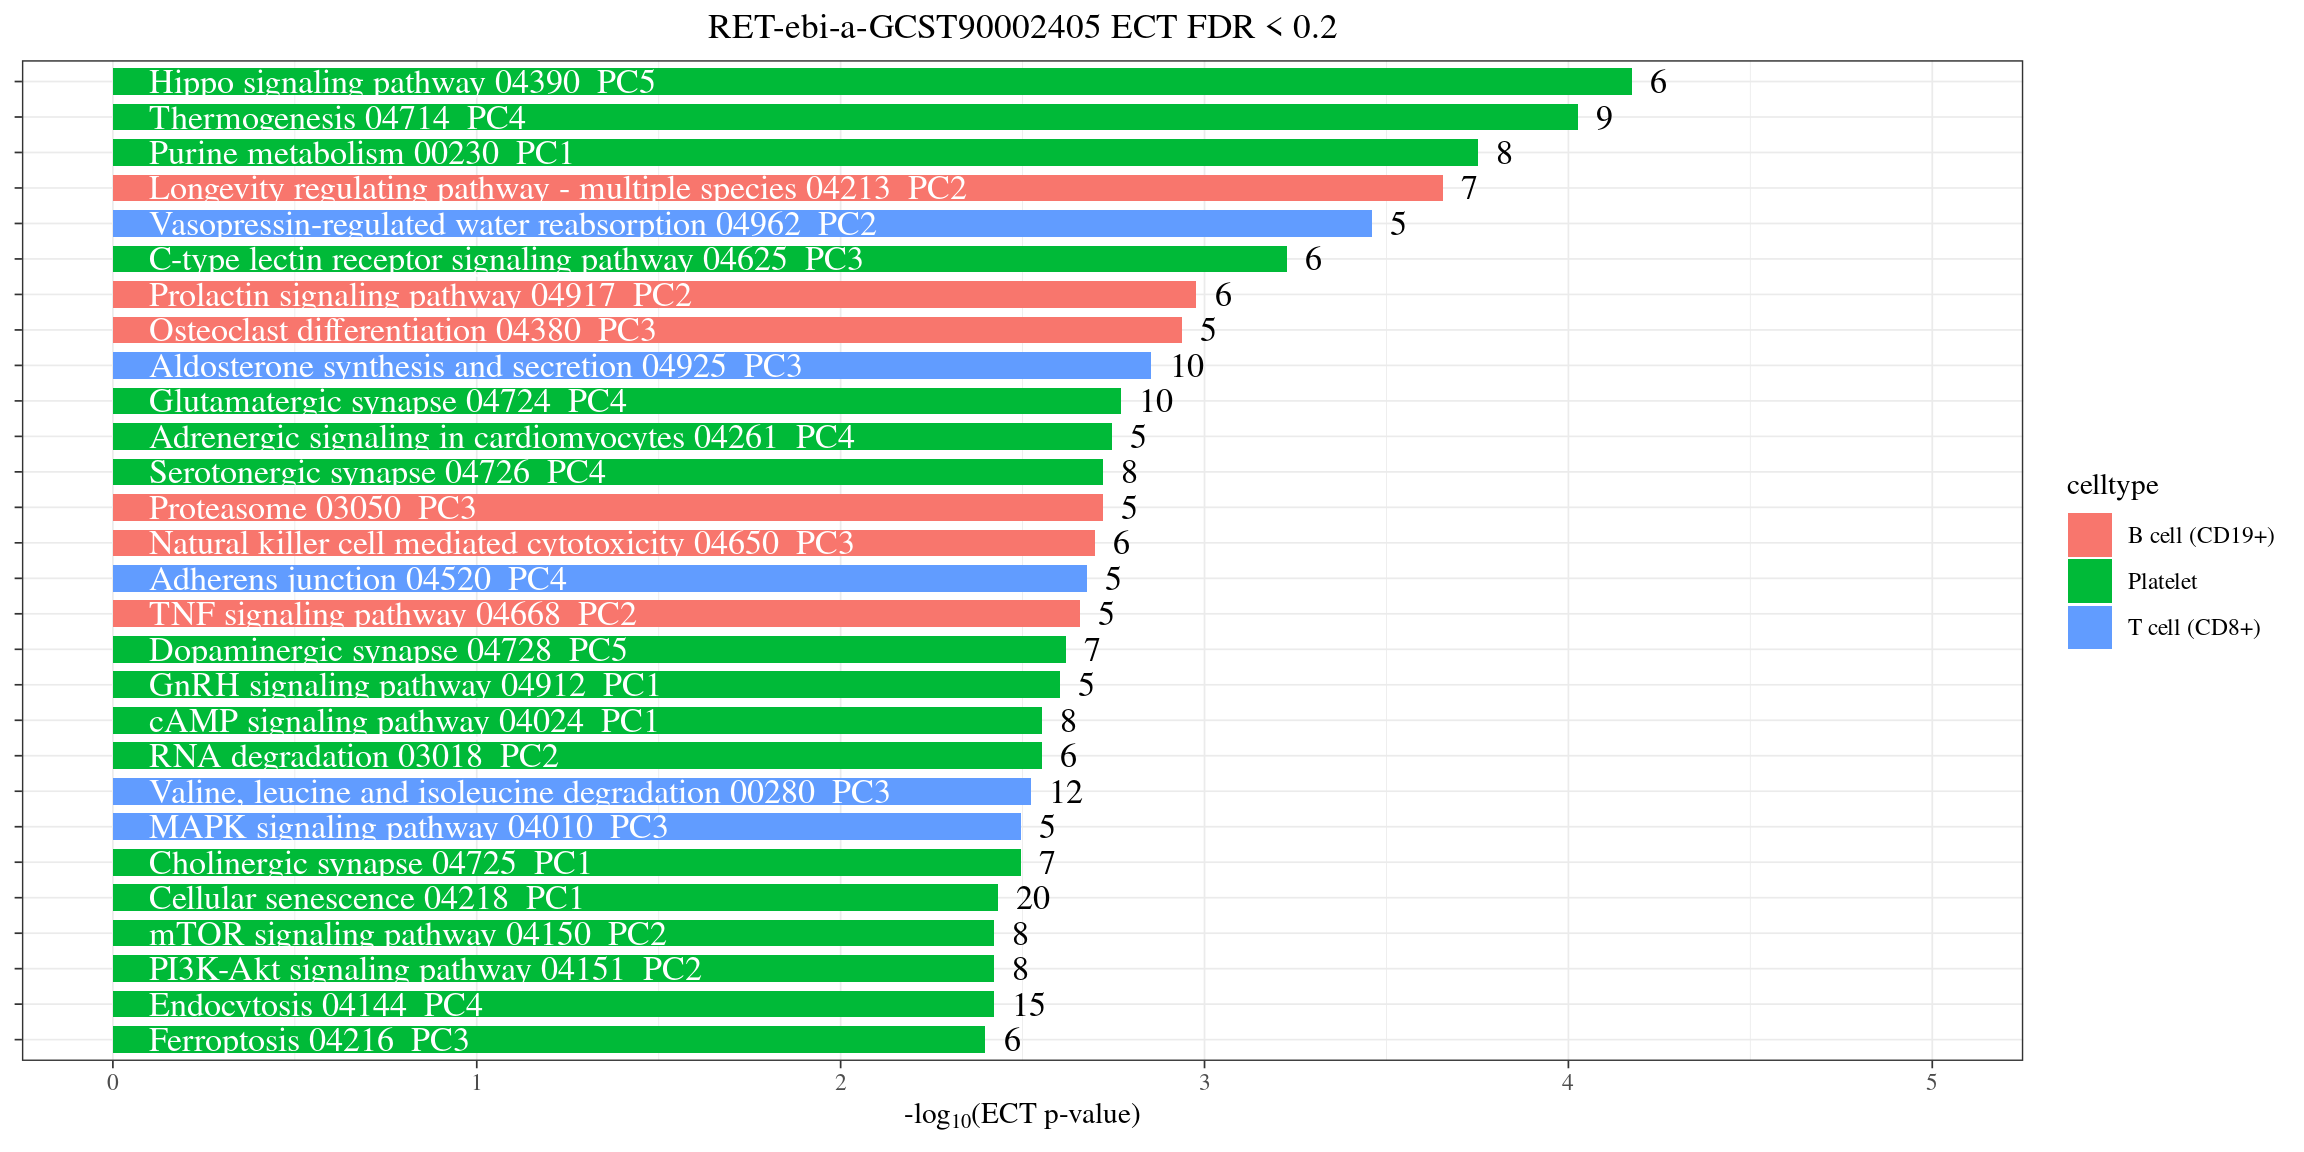
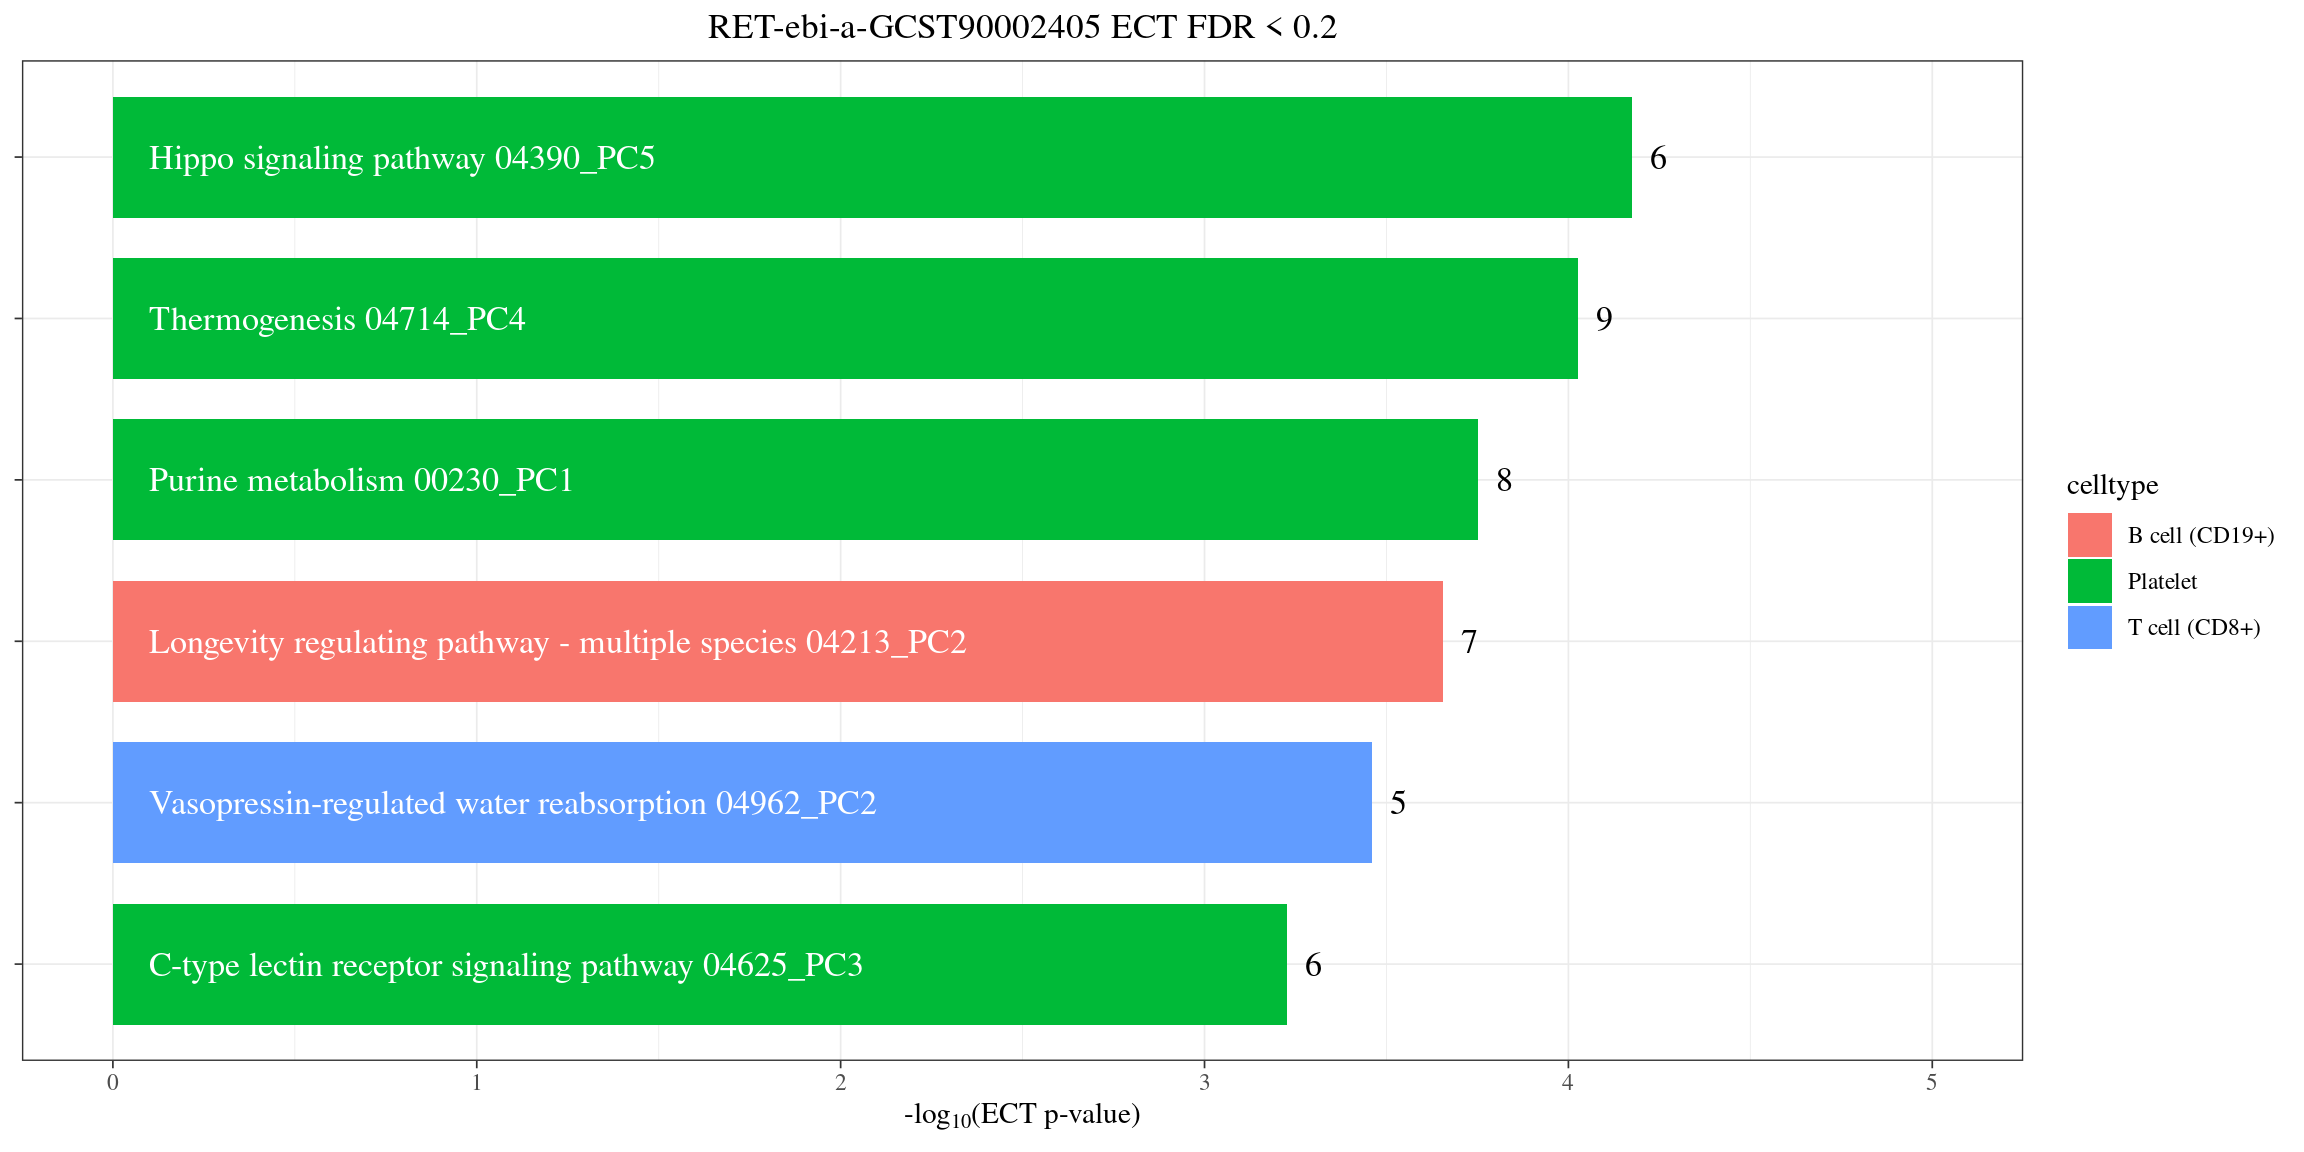
update

diff --git a/docs/revision_figures.html b/docs/revision_figures.html
@@ -410,7 +410,7 @@ aria-hidden="true"></span> </a>
 <div class="tab-content">
 <div id="summary" class="tab-pane fade in active">
 <p>
-<strong>Last updated:</strong> 2025-11-18
+<strong>Last updated:</strong> 2025-11-19
 </p>
 <p>
 <strong>Checks:</strong> <span
@@ -544,15 +544,15 @@ project makes it easier to run your code on other machines.</p>
 <div class="panel panel-default">
 <div class="panel-heading">
 <p class="panel-title">
-<a data-toggle="collapse" data-parent="#workflowr-checks" href="#strongRepositoryversionstrongahrefhttpsgithubcomxsun1229factoranalysisnewtree977037c765dc7f77a1fec555ab6788033e846f25targetblank977037ca">
+<a data-toggle="collapse" data-parent="#workflowr-checks" href="#strongRepositoryversionstrongahrefhttpsgithubcomxsun1229factoranalysisnewtree7a6312af336e57c5b5a3002a481bb7df3952a145targetblank7a6312aa">
 <span class="glyphicon glyphicon-ok text-success"
 aria-hidden="true"></span> <strong>Repository version:</strong>
-<a href="https://github.com/xsun1229/factor_analysis_new/tree/977037c765dc7f77a1fec555ab6788033e846f25" target="_blank">977037c</a>
+<a href="https://github.com/xsun1229/factor_analysis_new/tree/7a6312af336e57c5b5a3002a481bb7df3952a145" target="_blank">7a6312a</a>
 </a>
 </p>
 </div>
 <div
[2 lines of base64/hex data omitted]
 class="panel-collapse collapse">
 <div class="panel-body">
 <p>
@@ -562,7 +562,7 @@ reproducibility.
 </p>
 <p>
 The results in this page were generated with repository version
-<a href="https://github.com/xsun1229/factor_analysis_new/tree/977037c765dc7f77a1fec555ab6788033e846f25" target="_blank">977037c</a>.
+<a href="https://github.com/xsun1229/factor_analysis_new/tree/7a6312af336e57c5b5a3002a481bb7df3952a145" target="_blank">7a6312a</a>.
 See the <em>Past versions</em> tab to see a history of the changes made
 to the R Markdown and HTML files.
 </p>
@@ -576,12 +576,8 @@ depends on. Below is the status of the Git repository when the results
 were generated:
 </p>
 <pre><code>
-Ignored files:
-    Ignored:    analysis/figure/
-
 Unstaged changes:
     Modified:   analysis/revision_figures.Rmd
-    Modified:   analysis/revision_power_simulate.Rmd
 
 </code></pre>
 <p>
@@ -627,6 +623,57 @@ Message
 </tr>
 </thead>
 <tbody>
+<tr>
+<td>
+Rmd
+</td>
+<td>
+<a href="https://github.com/xsun1229/factor_analysis_new/blob/7a6312af336e57c5b5a3002a481bb7df3952a145/analysis/revision_figures.Rmd" target="_blank">7a6312a</a>
+</td>
+<td>
+XSun
+</td>
+<td>
+2025-11-19
+</td>
+<td>
+update
+</td>
+</tr>
+<tr>
+<td>
+Rmd
+</td>
+<td>
+<a href="https://github.com/xsun1229/factor_analysis_new/blob/d42343d6b42ab1e52cb3aa4c75d6170cded5cc3c/analysis/revision_figures.Rmd" target="_blank">d42343d</a>
+</td>
+<td>
+XSun
+</td>
+<td>
+2025-11-18
+</td>
+<td>
+update
+</td>
+</tr>
+<tr>
+<td>
+html
+</td>
+<td>
+<a href="https://rawcdn.githack.com/xsun1229/factor_analysis_new/d42343d6b42ab1e52cb3aa4c75d6170cded5cc3c/docs/revision_figures.html" target="_blank">d42343d</a>
+</td>
+<td>
+XSun
+</td>
+<td>
+2025-11-18
+</td>
+<td>
+update
+</td>
+</tr>
 <tr>
 <td>
 Rmd
@@ -1021,6 +1068,8 @@ selected &lt;- df_trait_fdr02 %&gt;%
     pathwayName = paste0(pathwayName,&quot; &quot;,factor)
   )
 
+selected &lt;- selected[order(selected$p_ECT, decreasing = F), ]
+selected &lt;- selected[1:6,]
 # Plot
 p &lt;- ggplot(selected) +
   geom_col(
@@ -1350,6 +1399,18 @@ can also regulate B cells. FOXOs are critical to maintain the
 homeostasis of T- and B-cells within the immune system [PMID: 29782339].
 Autophagy is are crucial for long-term B-cell survival.</p>
 <ol start="2" style="list-style-type: decimal">
+<li>Propanoate metabolism</li>
+</ol>
+<p>Propionate, along with other short-chain fatty acids (SCFAs), has
+been shown to directly modulate B-cell function. Prior work demonstrated
+that SCFAs, including propionate, alter histone acetylation and
+propionylation in B cells, thereby influencing class-switch
+recombination and plasma-cell differentiation (PMID: 31896754).
+Consistent with this, SCFAs have been reported to enhance B-cell
+metabolic activity and increase IgA and IgG production (PMID: 27476413).
+Additional studies indicate that SCFAs regulate B cells differentiation
+via the FFA2 receptor (PMID: 35393660).</p>
+<ol start="3" style="list-style-type: decimal">
 <li>Endocytosis</li>
 </ol>
 <p>Endocytosis refers to the active process allowing the absorption of
@@ -2722,6 +2783,17 @@ Date
 <tbody>
 <tr>
 <td>
+<a href="https://github.com/xsun1229/factor_analysis_new/blob/d42343d6b42ab1e52cb3aa4c75d6170cded5cc3c/docs/figure/revision_figures.Rmd/unnamed-chunk-13-1.png" target="_blank">d42343d</a>
+</td>
+<td>
+XSun
+</td>
+<td>
+2025-11-18
+</td>
+</tr>
+<tr>
+<td>
 <a href="https://github.com/xsun1229/factor_analysis_new/blob/109e7dcbfc60227f544100cf9ff084a6215947bd/docs/figure/revision_figures.Rmd/unnamed-chunk-13-1.png" target="_blank">109e7dc</a>
 </td>
 <td>
@@ -2824,6 +2896,17 @@ Date
 <tbody>
 <tr>
 <td>
+<a href="https://github.com/xsun1229/factor_analysis_new/blob/d42343d6b42ab1e52cb3aa4c75d6170cded5cc3c/docs/figure/revision_figures.Rmd/unnamed-chunk-14-1.png" target="_blank">d42343d</a>
+</td>
+<td>
+XSun
+</td>
+<td>
+2025-11-18
+</td>
+</tr>
+<tr>
+<td>
 <a href="https://github.com/xsun1229/factor_analysis_new/blob/109e7dcbfc60227f544100cf9ff084a6215947bd/docs/figure/revision_figures.Rmd/unnamed-chunk-14-1.png" target="_blank">109e7dc</a>
 </td>
 <td>
@@ -2917,6 +3000,17 @@ Date
 <tbody>
 <tr>
 <td>
+<a href="https://github.com/xsun1229/factor_analysis_new/blob/d42343d6b42ab1e52cb3aa4c75d6170cded5cc3c/docs/figure/revision_figures.Rmd/unnamed-chunk-15-1.png" target="_blank">d42343d</a>
+</td>
+<td>
+XSun
+</td>
+<td>
+2025-11-18
+</td>
+</tr>
+<tr>
+<td>
 <a href="https://github.com/xsun1229/factor_analysis_new/blob/109e7dcbfc60227f544100cf9ff084a6215947bd/docs/figure/revision_figures.Rmd/unnamed-chunk-15-1.png" target="_blank">109e7dc</a>
 </td>
 <td>
@@ -2955,6 +3049,43 @@ for(celltype in celltypes){
 
 all &lt;- grid.arrange(p[[1]],p[[2]],p[[3]],p[[4]],p[[5]],p[[6]], nrow = 2)</code></pre>
 <p><img src="figure/revision_figures.Rmd/unnamed-chunk-15-2.png" width="739.2" style="display: block; margin: auto;" /></p>
+<p>
+<button type="button" class="btn btn-default btn-xs btn-workflowr btn-workflowr-fig" data-toggle="collapse" data-target="#fig-unnamed-chunk-15-2">
+Past versions of unnamed-chunk-15-2.png
+</button>
+</p>
+<div id="fig-unnamed-chunk-15-2" class="collapse">
+<div class="table-responsive">
+<table class="table table-condensed table-hover">
+<thead>
+<tr>
+<th>
+Version
+</th>
+<th>
+Author
+</th>
+<th>
+Date
+</th>
+</tr>
+</thead>
+<tbody>
+<tr>
+<td>
+<a href="https://github.com/xsun1229/factor_analysis_new/blob/d42343d6b42ab1e52cb3aa4c75d6170cded5cc3c/docs/figure/revision_figures.Rmd/unnamed-chunk-15-2.png" target="_blank">d42343d</a>
+</td>
+<td>
+XSun
+</td>
+<td>
+2025-11-18
+</td>
+</tr>
+</tbody>
+</table>
+</div>
+</div>
 </div>
 <div id="eas-1" class="section level3">
 <h3>EAS</h3>
@@ -3021,6 +3152,17 @@ Date
 <tbody>
 <tr>
 <td>
+<a href="https://github.com/xsun1229/factor_analysis_new/blob/d42343d6b42ab1e52cb3aa4c75d6170cded5cc3c/docs/figure/revision_figures.Rmd/unnamed-chunk-16-1.png" target="_blank">d42343d</a>
+</td>
+<td>
+XSun
+</td>
+<td>
+2025-11-18
+</td>
+</tr>
+<tr>
+<td>
 <a href="https://github.com/xsun1229/factor_analysis_new/blob/109e7dcbfc60227f544100cf9ff084a6215947bd/docs/figure/revision_figures.Rmd/unnamed-chunk-16-1.png" target="_blank">109e7dc</a>
 </td>
 <td>
@@ -3048,6 +3190,43 @@ for(celltype in celltypes){
 
 all &lt;- grid.arrange(p[[1]],p[[2]],p[[3]],p[[4]],p[[5]],p[[6]], nrow = 2)</code></pre>
 <p><img src="figure/revision_figures.Rmd/unnamed-chunk-16-2.png" width="739.2" style="display: block; margin: auto;" /></p>
+<p>
+<button type="button" class="btn btn-default btn-xs btn-workflowr btn-workflowr-fig" data-toggle="collapse" data-target="#fig-unnamed-chunk-16-2">
+Past versions of unnamed-chunk-16-2.png
+</button>
+</p>
+<div id="fig-unnamed-chunk-16-2" class="collapse">
+<div class="table-responsive">
+<table class="table table-condensed table-hover">
+<thead>
+<tr>
+<th>
+Version
+</th>
+<th>
+Author
+</th>
+<th>
+Date
+</th>
+</tr>
+</thead>
+<tbody>
+<tr>
+<td>
+<a href="https://github.com/xsun1229/factor_analysis_new/blob/d42343d6b42ab1e52cb3aa4c75d6170cded5cc3c/docs/figure/revision_figures.Rmd/unnamed-chunk-16-2.png" target="_blank">d42343d</a>
+</td>
+<td>
+XSun
+</td>
+<td>
+2025-11-18
+</td>
+</tr>
+</tbody>
+</table>
+</div>
+</div>
 </div>
 </div>
 <div id="s7-ect-storey-pi1" class="section level2">
@@ -3074,6 +3253,43 @@ p &lt;- ggplot(data, aes(x=labels, y=values, fill=labels)) +
 
 p</code></pre>
 <p><img src="figure/revision_figures.Rmd/unnamed-chunk-17-1.png" width="480" style="display: block; margin: auto;" /></p>
+<p>
+<button type="button" class="btn btn-default btn-xs btn-workflowr btn-workflowr-fig" data-toggle="collapse" data-target="#fig-unnamed-chunk-17-1">
+Past versions of unnamed-chunk-17-1.png
+</button>
+</p>
+<div id="fig-unnamed-chunk-17-1" class="collapse">
+<div class="table-responsive">
+<table class="table table-condensed table-hover">
+<thead>
+<tr>
+<th>
+Version
+</th>
+<th>
+Author
+</th>
+<th>
+Date
+</th>
+</tr>
+</thead>
+<tbody>
+<tr>
+<td>
+<a href="https://github.com/xsun1229/factor_analysis_new/blob/d42343d6b42ab1e52cb3aa4c75d6170cded5cc3c/docs/figure/revision_figures.Rmd/unnamed-chunk-17-1.png" target="_blank">d42343d</a>
+</td>
+<td>
+XSun
+</td>
+<td>
+2025-11-18
+</td>
+</tr>
+</tbody>
+</table>
+</div>
+</div>
 </div>
 <div id="eas-2" class="section level3">
 <h3>EAS</h3>
@@ -3097,6 +3313,43 @@ p &lt;- ggplot(data, aes(x=labels, y=values, fill=labels)) +
 
 p</code></pre>
 <p><img src="figure/revision_figures.Rmd/unnamed-chunk-18-1.png" width="480" style="display: block; margin: auto;" /></p>
+<p>
+<button type="button" class="btn btn-default btn-xs btn-workflowr btn-workflowr-fig" data-toggle="collapse" data-target="#fig-unnamed-chunk-18-1">
+Past versions of unnamed-chunk-18-1.png
+</button>
+</p>
+<div id="fig-unnamed-chunk-18-1" class="collapse">
+<div class="table-responsive">
+<table class="table table-condensed table-hover">
+<thead>
+<tr>
+<th>
+Version
+</th>
+<th>
+Author
+</th>
+<th>
+Date
+</th>
+</tr>
+</thead>
+<tbody>
+<tr>
+<td>
+<a href="https://github.com/xsun1229/factor_analysis_new/blob/d42343d6b42ab1e52cb3aa4c75d6170cded5cc3c/docs/figure/revision_figures.Rmd/unnamed-chunk-18-1.png" target="_blank">d42343d</a>
+</td>
+<td>
+XSun
+</td>
+<td>
+2025-11-18
+</td>
+</tr>
+</tbody>
+</table>
+</div>
+</div>
 <br>
 <p>
 <button type="button" class="btn btn-default btn-workflowr btn-workflowr-sessioninfo" data-toggle="collapse" data-target="#workflowr-sessioninfo" style="display: block;">
